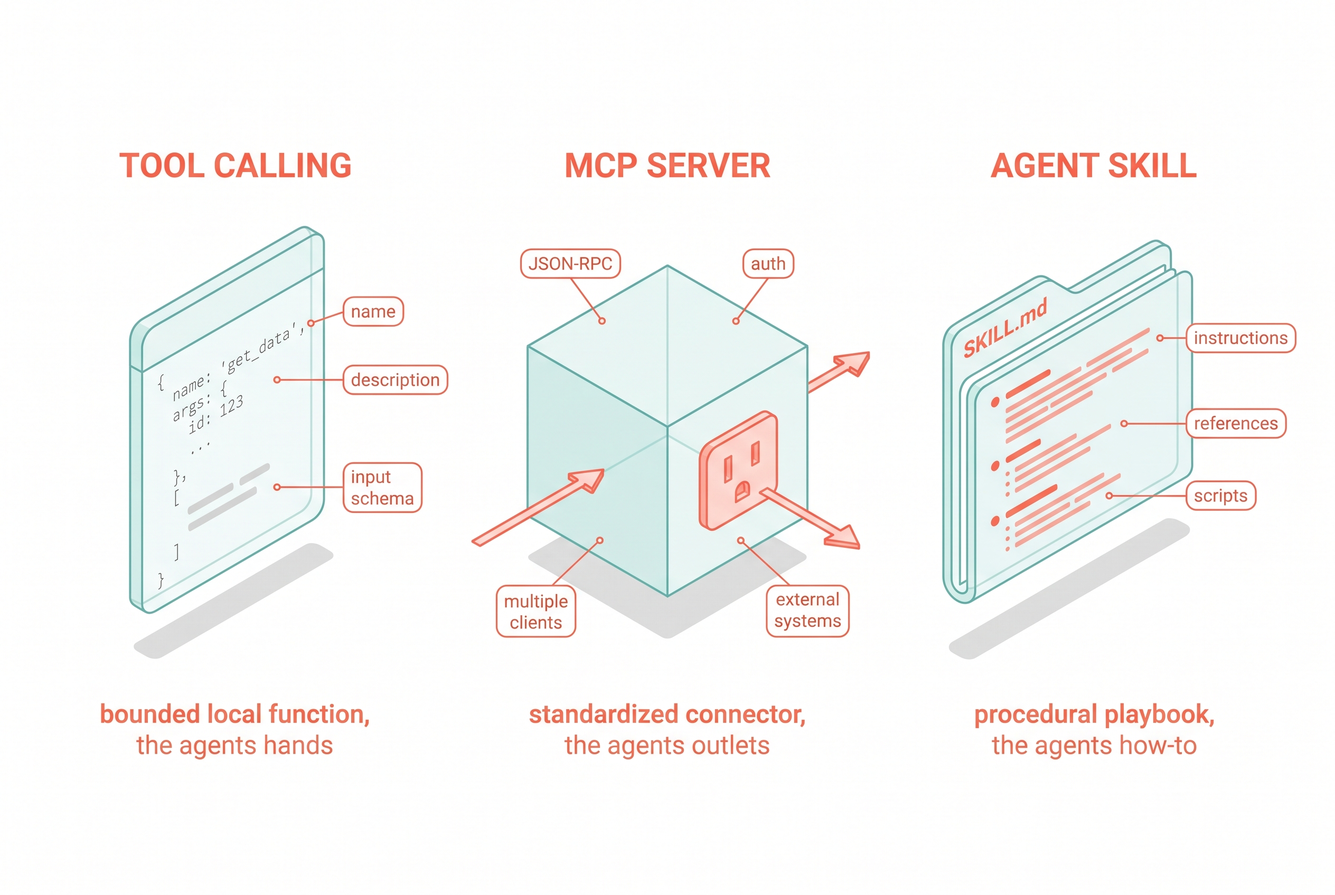
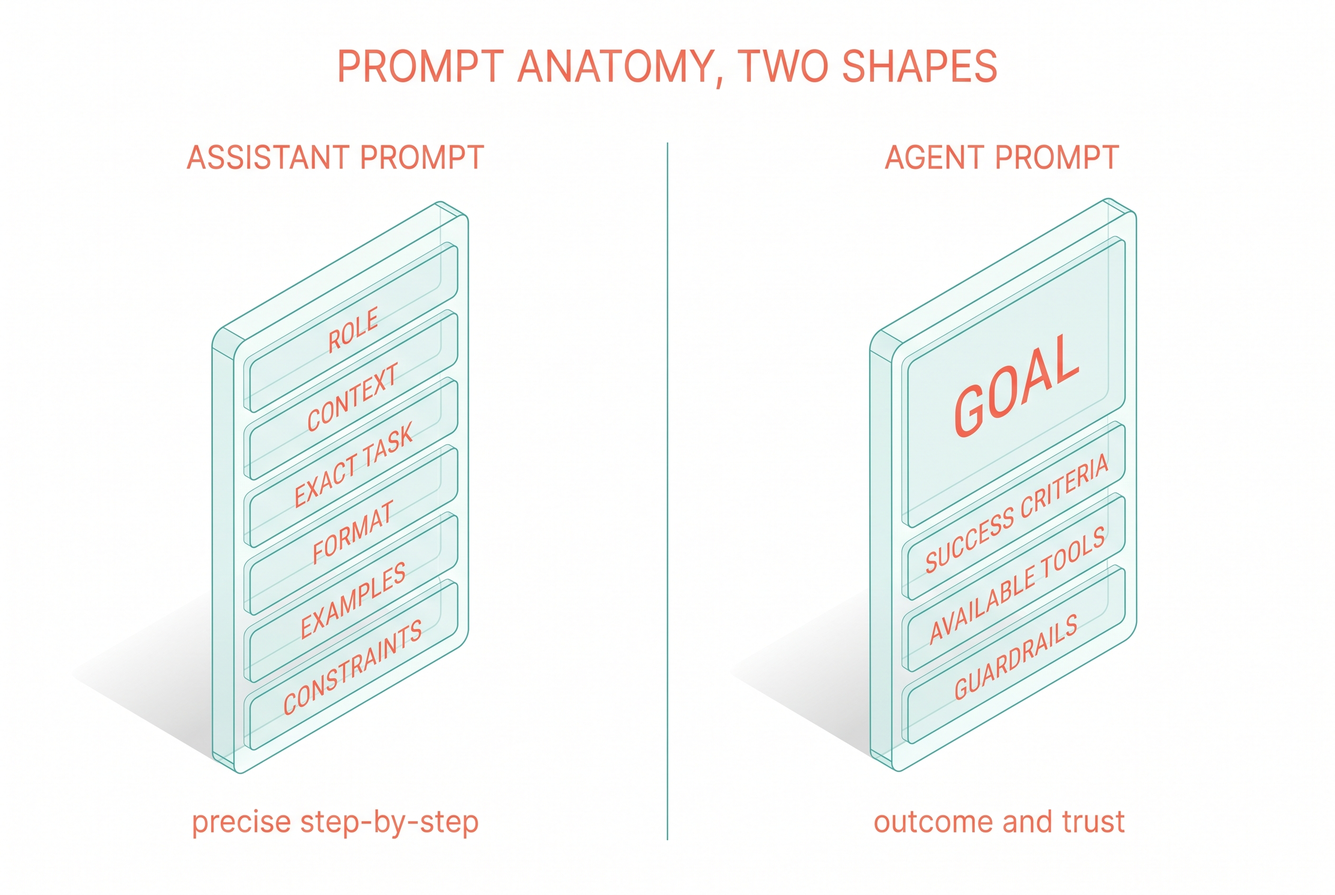
Archive diagram-1-anatomy.png from content: Prompt engineering split in 2026: diagram-1-anatomy.png

diff --git a/projects/content/INDEX.md b/projects/content/INDEX.md
@@ -77,3 +77,4 @@
 | 2026-05-18 | reports | [substack-version.md](reports/substack-version.md) | Prompt engineering split in 2026: substack-version.md | /Users/marcokotrotsos/PERSONAL/Content/drafts/prompt-engineering-split-2026/substack-version.md |
 | 2026-05-18 | reports | [linkedin-post.md](reports/linkedin-post.md) | Prompt engineering split in 2026: linkedin-post.md | /Users/marcokotrotsos/PERSONAL/Content/drafts/prompt-engineering-split-2026/linkedin-post.md |
 | 2026-05-18 | images | [hero.png](images/hero.png) | Prompt engineering split in 2026: hero.png | /Users/marcokotrotsos/PERSONAL/Content/drafts/prompt-engineering-split-2026/hero.png |
+| 2026-05-18 | images | [diagram-1-anatomy.png](images/diagram-1-anatomy.png) | Prompt engineering split in 2026: diagram-1-anatomy.png | /Users/marcokotrotsos/PERSONAL/Content/drafts/prompt-engineering-split-2026/diagram-1-anatomy.png |

diff --git a/INDEX.md b/INDEX.md
@@ -166,3 +166,4 @@
 | 2026-05-18 | content | reports | [substack-version.md](projects/content/reports/substack-version.md) | Prompt engineering split in 2026: substack-version.md |
 | 2026-05-18 | content | reports | [linkedin-post.md](projects/content/reports/linkedin-post.md) | Prompt engineering split in 2026: linkedin-post.md |
 | 2026-05-18 | content | images | [hero.png](projects/content/images/hero.png) | Prompt engineering split in 2026: hero.png |
+| 2026-05-18 | content | images | [diagram-1-anatomy.png](projects/content/images/diagram-1-anatomy.png) | Prompt engineering split in 2026: diagram-1-anatomy.png |
